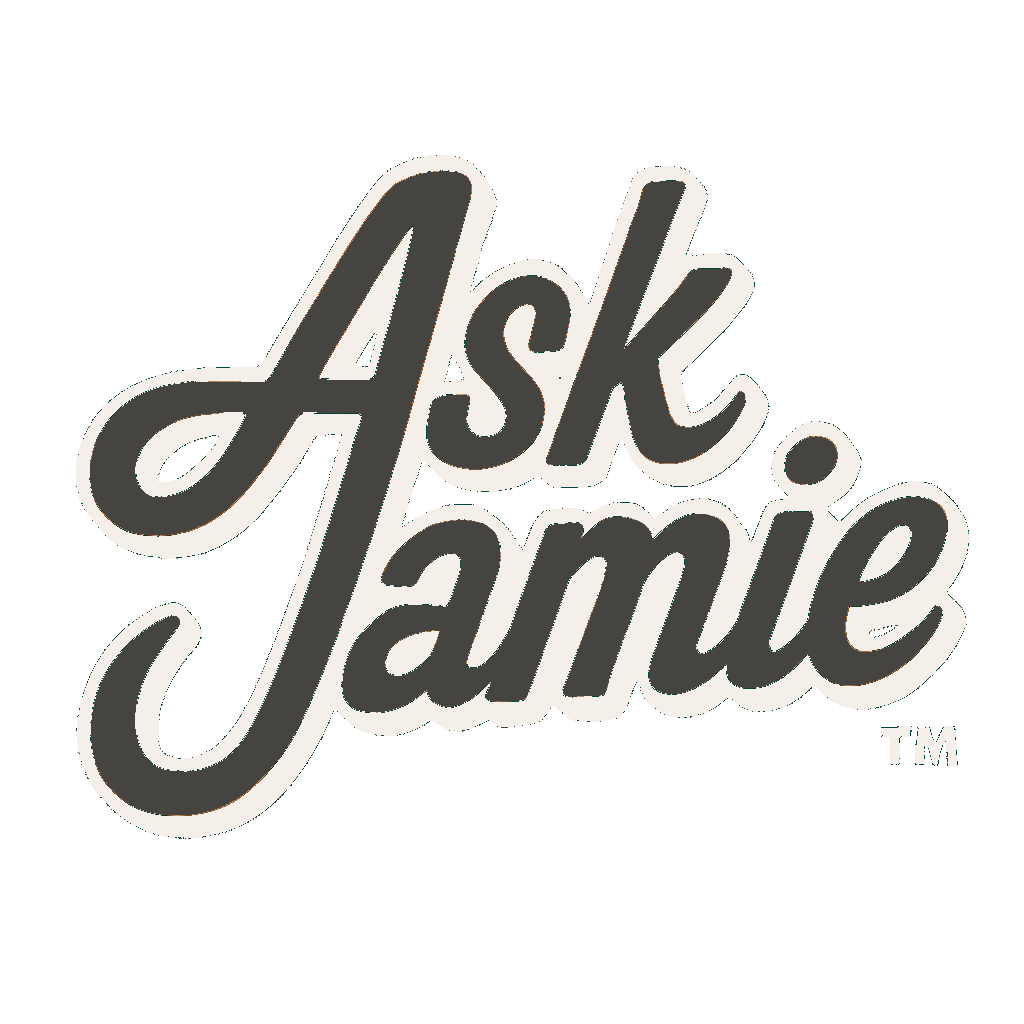
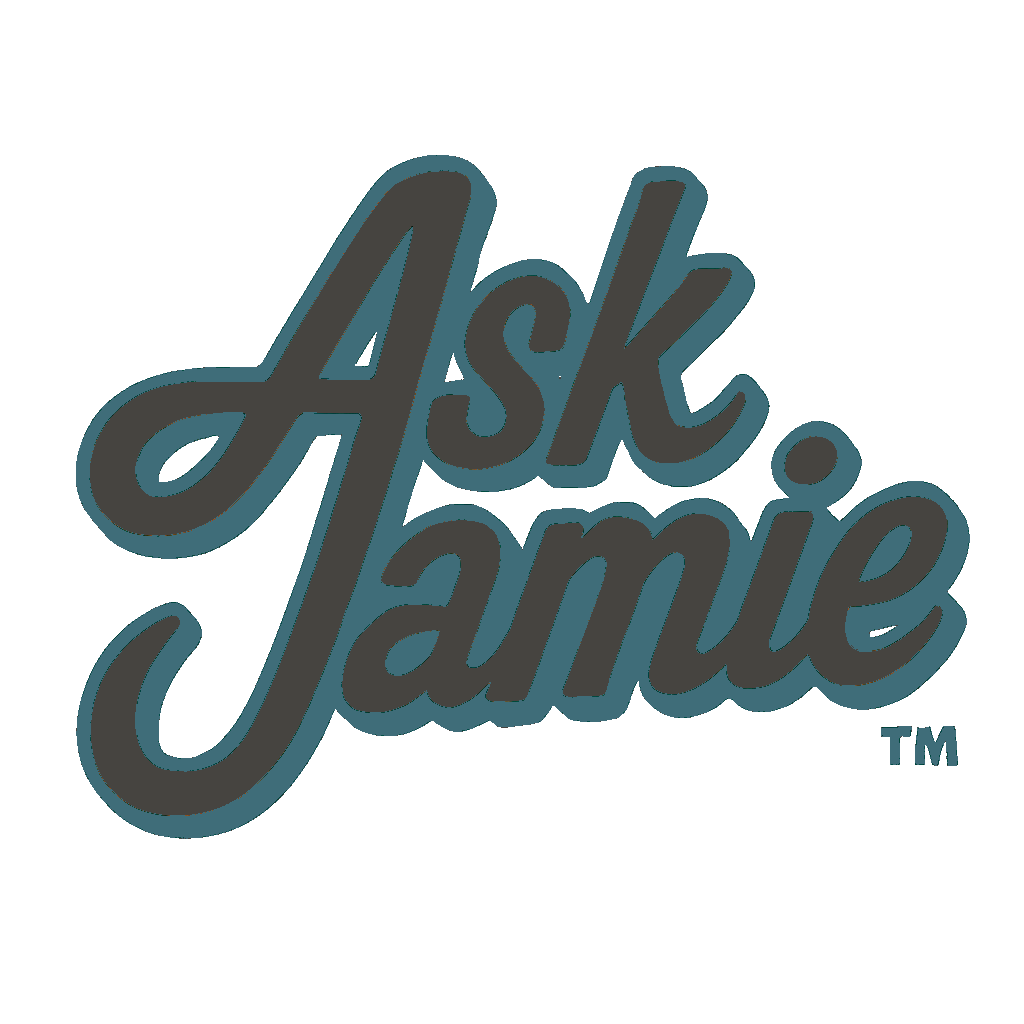
new file:   assets/img/AskJamie CompBlueCream Square 1024 (2).png 	new file:   assets/img/AskJamie CompBlueCream Square 1024.png 	new file:   assets/img/AskJamie CompBlueTan Square 1024 (2).png 	new file:   assets/img/AskJamie CompBlueTan Square 1024.png 	new file:   assets/img/AskJamie CompCreamGra

Changed region(s): [[0.0625, 0.125, 0.9688, 0.8438]]

diff --git a/brandguard.html b/brandguard.html
@@ -1,3 +1,6 @@
+<!-- [MermaidChart: 25a5fb95-5296-4a48-b0e8-d8e781e6ea48] -->
+<!-- [MermaidChart: b225f64f-b509-42c4-86eb-88a57446b04d] -->
+<!-- [MermaidChart: f4f57f53-a0de-4f1c-a91c-8ea23e5b0ecd] -->
 <!DOCTYPE html>
 <html lang="en">
   <head>
